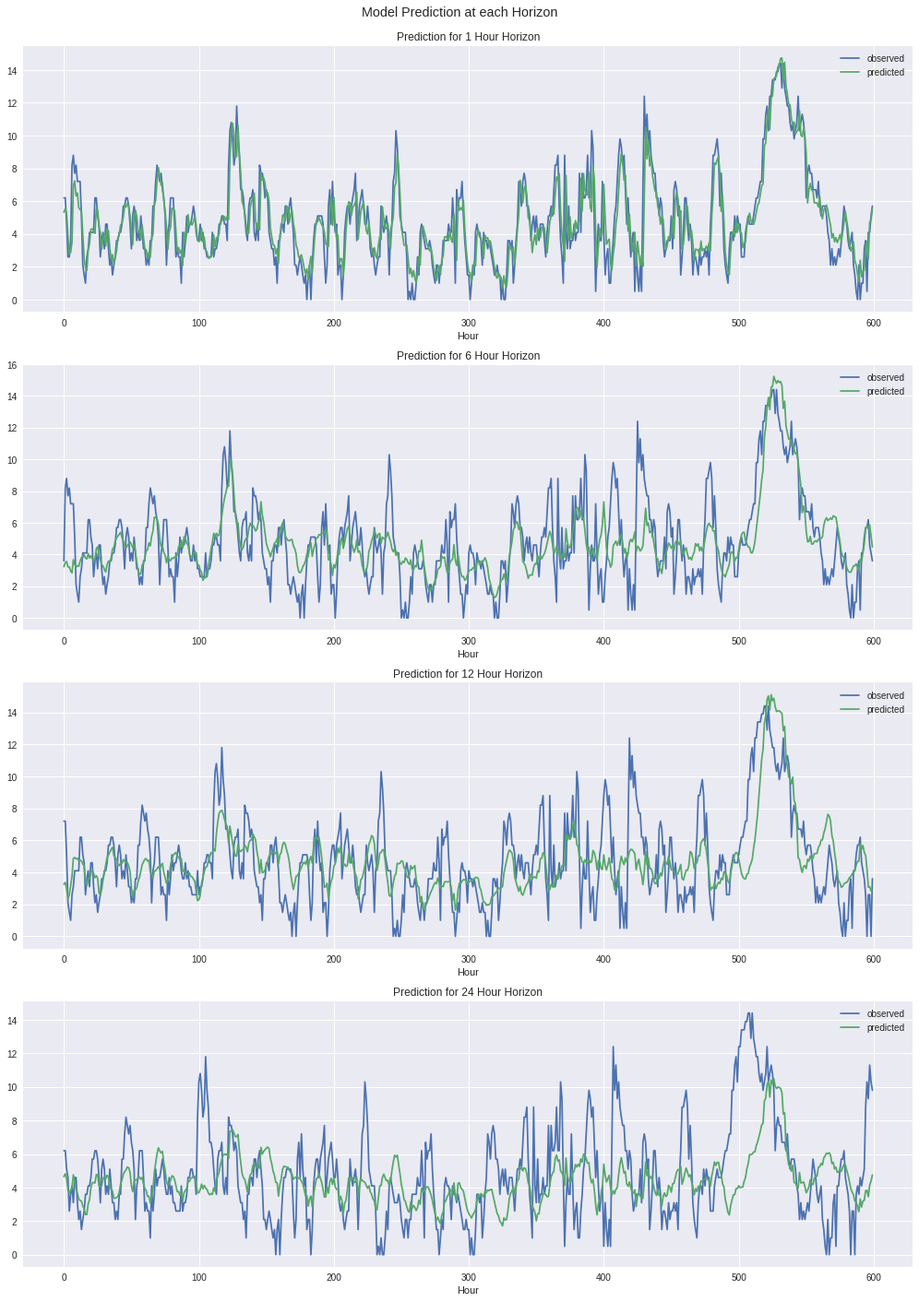
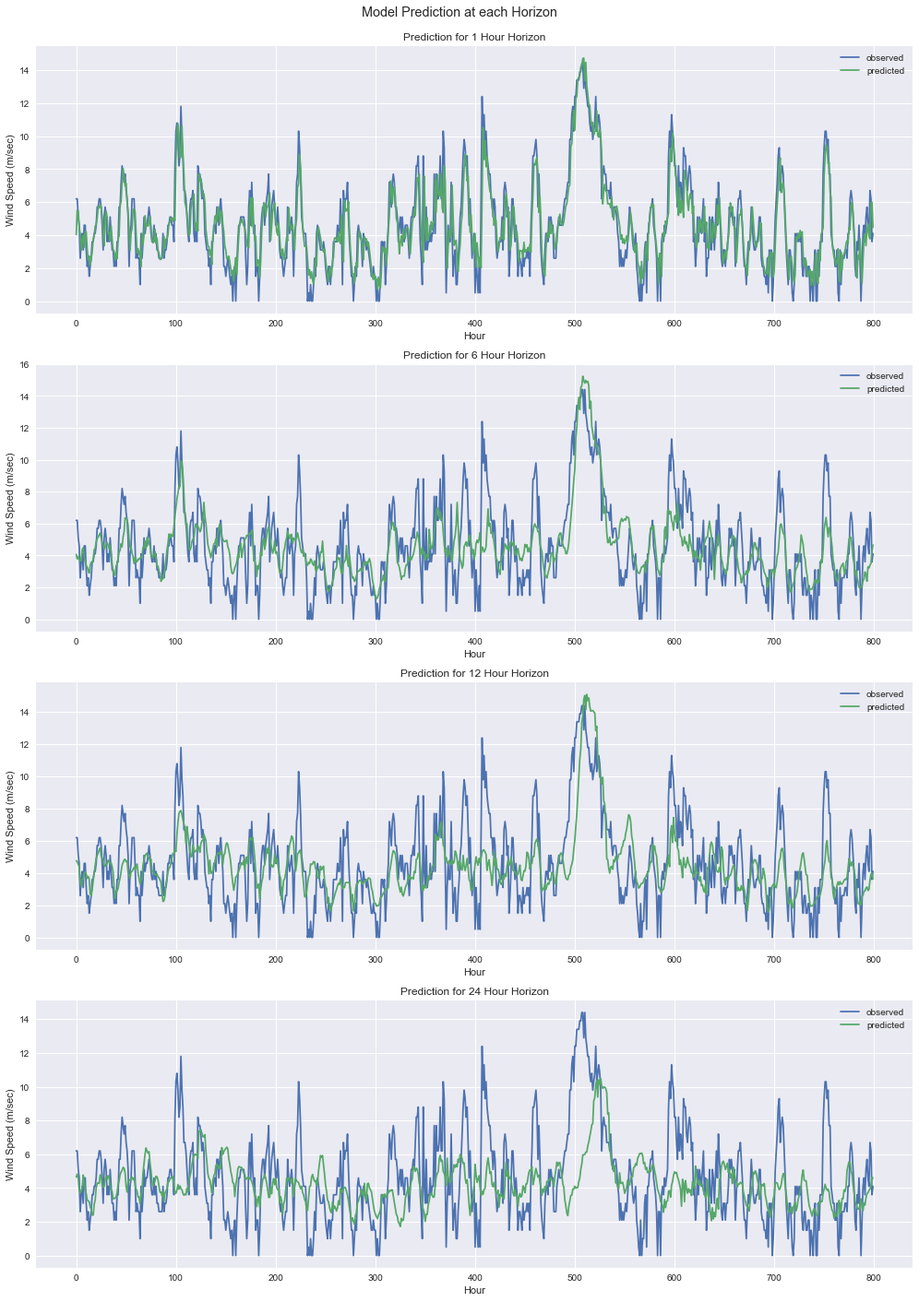
typos and cleanup

diff --git a/_posts/machine-learning/2017-09-01-short-term-forceasting-lstm.md b/_posts/machine-learning/2017-09-01-short-term-forceasting-lstm.md
@@ -9,6 +9,7 @@ categories: [machine-learning, forecasting, LSTM]
 
 The notebook this blog post was generated from can be found on [github](https://github.com/willfleury/wind-forecasting/blob/master/Forecasting.ipynb)
 
+
 ## Overview
 
 Short term forecasting in the renewable energy sector is becoming increasingly important. With renewables penetrating the market faster than expected, and the inherent uncertainty involved with weather forecasts, it is putting a lot of strain on the existing energy providers and distributors to both manage and balance the power grid. Doing so efficiently requires accurate knowledge of both both supply and demand. As both of these are future events, forecasting is required to predict these factors. Energy demand is a more stable signal than supply of renewable energy which is based on local weather systems relative to the energy generation. Of course demand can also spike unexpectedly with events such as extreme weather spells. Bad predictions can cause energy providers to end up with a shortfall in supply which means they will be required to generate the shortfall by burning more expensive and less climate friendly fuels. It can also result in large oversupply where the company is burning fuel needlessly with is both bad economically and for the climate. Therefore, better predictions in the [1, 48] hour time horizon are absolutely central to efficiently balancing supply and demand in the energy grid. 
@@ -18,23 +19,28 @@ In this post, we will show you how to implement a short term weather forecast us
 In this post we're not going to argue the merits of deep learning via LSTMs vs more classical methods such as [ARIMA](https://en.wikipedia.org/wiki/Autoregressive_integrated_moving_average) or vice versa. Instead we're simply showing how to approach and implement a forecasting problem using LSTMs. In general simpler machine learning models should be tried first.
 
 
-### ARIMA
-
-Auto-Regressive Integrated Moving Average ([ARIMA](https://en.wikipedia.org/wiki/Autoregressive_integrated_moving_average)) models are the most general and commonly used class of models for forecasting of a stationary signal (or on which can be made stationary). They support random walk, seasonal trend, non-seasonal exponentional smoothing and autoregressive models. 
-
-Lags of the stationarized series in the forecasting equation are called "autoregressive" terms, lags of the forecast errors are called "moving average" terms, and a time series which needs to be differenced to be made stationary is said to be an "integrated" version of a stationary series. Random-walk and random-trend models, autoregressive models, and exponential smoothing models are all special cases of ARIMA models. See [here](https://people.duke.edu/~rnau/411arim.htm) for more details. While there is a relatively systematic approach to determining the ARIMA model parameters. There are many many publications and applications of ARIMA to renewables forecasting with various extensions to solve different issues. 
-
-To see an application of ARIMA for forecasting and the method for determining the model parameters, see the following [notebook](https://datascience.ibm.com/exchange/public/entry/view/815137c868b916821dec777bdc23013c). 
-
-
 ### Why use a Recurrent Neural Network
 
 Recurrent neural networks enable the learning and encoding of temporal features of a signal. This is ideal for forecasting signals which are in some way predictive based on past events. LSTMs are a type of recurrent networks that overcome some of the historic issues related to training recurrent networks, such as the [vanishing gradients problem](https://en.wikipedia.org/wiki/Vanishing_gradient_problem). We won't delve into the details of LSTMs here and will instead point you to this [article](http://colah.github.io/posts/2015-08-Understanding-LSTMs/) for a thorough overview. 
 
 
+### ARIMA
+
+Auto-Regressive Integrated Moving Average ([ARIMA](https://en.wikipedia.org/wiki/Autoregressive_integrated_moving_average)) models are the most general and commonly used class of models for forecasting of a stationary signal (or a signal which can be made stationary). They support random walk, seasonal trend, non-seasonal exponentional smoothing and autoregressive models. 
+
+Lags of the stationarized series in the forecasting equation are called "autoregressive" terms, lags of the forecast errors are called "moving average" terms, and a time series which needs to be differenced to be made stationary is said to be an "integrated" version of a stationary series. Random-walk and random-trend models, autoregressive models, and exponential smoothing models are all special cases of ARIMA models. See [here](https://people.duke.edu/~rnau/411arim.htm) for more details. There are relatively systematic approaches to determining the ARIMA model parameters. There are many many publications and applications of ARIMA to renewables forecasting with various extensions to solve different issues. 
+
+To see an application of ARIMA for forecasting and the method for determining the model parameters, see the following [notebook](https://datascience.ibm.com/exchange/public/entry/view/815137c868b916821dec777bdc23013c). 
+
+
+### Baseline Comparison
+
+As a baseline model comparison, we will compare the results of the LSTM predictions with that of a persistence method forecast. A persistence method forecast is simply one that uses the observed reading from the previous timestamp to predict the current timestamp. Such a method is very simple but surprisingly effective in complex systems where values between successive timestamps changes little. As the forecast horizon increases, these methods can be seen to be less and less effective. However, cyclical patterns can lead to larger horizons being more accurate than medium horizons (think about the presistence method forecast for the temperature at horizon 12 and 24 hours.. The 24 hour prediction should be more accurate than the 12 hour as it is for the same time of day)
+
+
 ## Weather Data
 
-As we want to make predictions on the weather at a given location at a given point in time, we need observational data for that location. Another common approach is to predict the power output of a wind farm based which is of course based on the weather and the power conversion properties of the wind turbines. However as the power output prediction relies on the weather prediction and the power conversion properties of the wind turbines, modelling the weather predictions can be seen as the first step in modelling the power output. 
+As we want to make predictions on the weather at a given location at a given point in time, we need observational data for that location. Another common approach is to predict the power output of a wind farm which is of course based on the weather and the power conversion properties of the wind turbines.
 
 There are many caveats we won’t go into in this post on the observational data such as the height of the observation tower relative to the turbines and other similarly important factors. An ideal scenario would be observations of the weather data from the same location and height of each turbine in a wind farm. This would provide the most accurate observational data to use in training our models. Sometimes it is easier to model the turbin power output as it can be more stable and incorporate the power conversion properties of the tubines also. However, for the purposes of demonstration, we will use the weather observation available from the nearest NOAA weather station which happens to be El Prat Airport in Barcelona. This is from a height of only 8 metres and measurements at this height tend to be more unstable.
 
@@ -51,7 +57,7 @@ We providea script that allows you to download the data locally
     
 We then read and parse this data for the exact weather observation station we wish to work with (there are, or have been multiple in El Prat). Don't use data from many stations as its unlikely to be consistent (same height, location etc). 
 
-Sometimes the stations have readings every 30 minutes and sometimes every hour. We have seen that not all of the meterological readings are available every 30 minutes in such circumstances and so in this example we only use the hourly data. 
+Sometimes the stations have readings every 30 minutes and sometimes every hour. We have seen that not all of the meterological readings are available every 30 minutes and so in this example we only use the hourly data. 
 
 
 
@@ -91,8 +97,6 @@ def read_observations(years, usaf='081810', wban='99999'):
 The numerical weather model (NWM) we're going to use to help us take into account information other than the local station observations is the NEMS4 model. This is provided free of charge to download by [MeteoBlue](https://www.meteoblue.com) for a given date range for a given station. We read and parse this raw download format here.  
 
 Using a weather model is really important as you cannot hope to account for weather systems moving across a local region without it. An important point to note is that the weather model and observations are not meant to match exactly as the model may be predicting for a different height than the observations. However the boundary and ramp events are what we're after. 
-
-TODO: Get this info off Nico
 
 
 ```python
@@ -135,7 +139,8 @@ def read_nems4(years, prediction_hours=12):
 ```
 
 ### Join the NWM and Observations
-Join the datasets by the timestamps
+
+Next we join the observational and numerical model datasets by their timestamps and print some statistics. Its a good idea to quickly eyeball the statistics here, especially max values. 
 
 
 ```python
@@ -188,7 +193,7 @@ dataset.describe()
     <tr>
       <th>count</th>
       <td>69153.000000</td>
-      <td>69142.000000</td>
+      <td>69054.000000</td>
       <td>69130.000000</td>
       <td>52759.000000</td>
       <td>69182.000000</td>
@@ -202,7 +207,7 @@ dataset.describe()
     <tr>
       <th>mean</th>
       <td>16.766853</td>
-      <td>0.111163</td>
+      <td>0.080754</td>
       <td>67.704470</td>
       <td>1016.462495</td>
       <td>4.108177</td>
@@ -216,7 +221,7 @@ dataset.describe()
     <tr>
       <th>std</th>
       <td>6.758833</td>
-      <td>1.422863</td>
+      <td>1.098300</td>
       <td>14.481048</td>
       <td>6.862298</td>
       <td>2.106659</td>
@@ -286,7 +291,7 @@ dataset.describe()
     <tr>
       <th>max</th>
       <td>35.300000</td>
-      <td>96.000000</td>
+      <td>75.900000</td>
       <td>100.000000</td>
       <td>1038.700000</td>
       <td>27.800000</td>
@@ -305,7 +310,7 @@ dataset.describe()
 
 ### Transformations - Preprocessing
 
-There are a number of preprocessing steps we must take on this data. We only perform the bare minimum in this notebook as an example of how to work with the data. Much more time and analysis should be spend working with missing datapoints in particular and investigating or trying to detect where the instruments may not be working well (e.g. it is reading zero for a given period). Looking at the dataframe statistics in the cell above provide one with a quick eyeball estimate of outliers which should be filtered - for example, if the wind was 100m/sec at any point it is obviously wrong. 
+There are a number of preprocessing steps we must take on this data. We only perform the bare minimum in this notebook as an example of how to work with the data. Much more time and analysis should be spent working with missing datapoints in particular and investigating or trying to detect where the instruments may not be working well (e.g. it is reading zero for a given period). Looking at the dataframe statistics in the cell above, one can quickly tell if there are outliers which should be filtered - for example, if the wind was 100m/sec at any point it is obviously wrong. 
 
 - Dropping Duplicates
 
@@ -317,7 +322,7 @@ As mentioned, this step needs some more love. We apply very simple forward filli
 
 - Standardize / Stationary Signal
 
-A nice resource for understanding stationarity is [here](https://people.duke.edu/~rnau/411diff.htm). A standardised series is easier to predict. Weather data in particular is non stationary with cyclical trends. Hence, we use first order differencing here to transform the signal from non stationary to stationary. We could spend an entire notebook anlaysing this and showing why etc. Instead we refer you back to the [resource](https://people.duke.edu/~rnau/411diff.htm). 
+A nice resource for understanding stationarity is [here](https://people.duke.edu/~rnau/411diff.htm). A standardised series is easier to predict. Weather data in particular is non stationary with cyclical trends. Hence, we use first order differencing here to transform the signal from non stationary to stationary. We could spend an entire notebook analysing this and showing why etc. Instead we refer you back to the [resource](https://people.duke.edu/~rnau/411diff.htm). 
 
 - Normalize
 
@@ -431,7 +436,7 @@ scaled.describe()
 ```
 
     Number of duplicates: 165
-    Number of rows with nan: 18206
+    Number of rows with nan: 18293
 
 
 
@@ -680,7 +685,7 @@ A stateful Keras LSTM network is one where the internal LSTM units are not reset
 
 A non stateful LSTM in Keras terminology resembles more of a classic sliding window approach to training, except where the successive timesteps in the window are framed one after another as a two dimensional array instead of flattened out into a long one dimensional array. This allows the LSTM to learn the state and temporal dependencies between the frames in the time window and Keras will automatically reset the state between each training window. This means that there is no ordering or continuity requirements on the training data outside of the windows.
 
-We cannot reasonably expect the model to pick up very long term dependencies for the weather here given even the most accurate global weather models are chance at horizons of 10 days. Therefore we define our window size (sequence_length) to be 48 hours. You can change to 72 etc to see the difference. The nice things with LSTMs is that you do not increase the number of parameters in the LSTM network by changing this sequence_lenght.
+We cannot reasonably expect the model to pick up very long term dependencies for the weather here given even the most accurate global weather models are chance at horizons of 10 days. Therefore we define our window size (sequence_length) to be 48 hours. You can change to 72 etc to see the difference. The nice thing with LSTMs is that you do not increase the number of parameters in the LSTM network by changing this sequence_lenght.
 
 The shape of the X datasets will be a 3D tensor
 
@@ -816,11 +821,11 @@ for i, horizon in enumerate(horizons):
 
 Build the non stateful LSTM network. 
 
-We apply regularisation via dropout between each layer in the network. This should help overfitting but we could also add L2 or L2 weight regularization to help also. The RMSProp optimizer is recommended when working with LSTMs. The only tunable property of this is the learning rate. Keras has some callbacks that allow for tuning of this as the training progresses (e.g. see [ReduceLROnPlateau](https://keras.io/callbacks/#reducelronplateau)). 
+We apply regularisation via dropout between each layer in the network. This should help overfitting but we could also add L2 weight regularization. The RMSProp optimizer is recommended when working with LSTMs. The only tunable property of this is the learning rate. Keras has some callbacks that allow for tuning of this as the training progresses (e.g. see [ReduceLROnPlateau](https://keras.io/callbacks/#reducelronplateau)). 
 
-The first and last layers deserve a comment. The input_shape argument in the first layer specifies the number of input features which is X_train.shape[2]. The last layer is the output layer (hence linear activation) and the size is equal to the number of time horizons we're predicting - y_train.shape[1]. 
+The first and last layers deserve a comment. The input_shape argument in the first layer specifies the number of input features which is `X_train.shape[2]`. The last layer is the output layer (hence linear activation) and the size is equal to the number of time horizons we're predicting - `y_train.shape[1]`. 
 
-We're using a very simple model structure in this notebook with a small number of parameters in each layer. This means we should expect to see trends as opposed to capturing the finer details of the signal. With better and more abundant training data, we could look to use a bigger network with more regularization if necessary to capture higher level and more complext latent features of the signal. 
+We're using a very simple network structure in this notebook with a small number of parameters in each layer. This means we should expect to see trends as opposed to capturing the finer details of the signal. With better and more abundant training data, we could look to use a bigger network with more regularization if necessary to capture higher level and more complex latent features of the signal. 
 
 
 ```python
@@ -853,6 +858,8 @@ def build_model(layers):
     return model
 ```
 
+    Using TensorFlow backend.
+
 
 ### Train and Evaluate the Model
 
@@ -865,12 +872,14 @@ The batch_size here refers to the number of samples to be taken between gradient
 
 #### Using AWS or Google Cloud GPUs
 
-While a GPU is absolutely essential to train a large network, for a small network like we are playing with in this notebook you don't gain massively. I found that it was about 4 times faster on a p2.xlarge GPU instance on AWS compared to locally on my 4 core i7. Most of the cloud providers give access to a variety of options for deep learning with optimized instances and GPUs. We won't go into the details of how to do for each or the benefits of one versus the other in this post. We trained the model on a p2.2xlarge instance on AWS using the AWS Spot market which cost approx $0.3 / hour. Training 50 epocs took approximately 20 minutes. 
+While a GPU is absolutely essential to train a large network, for a small network like we are playing with in this notebook you can train the model on a good i7 cpu. I found that it was about 8 times faster on a p2.xlarge GPU instance on AWS compared to locally on my 4 core i7. Most of the cloud providers give access to a variety of options for deep learning with optimized instances and GPUs. We won't go into the details of how to do for each or the benefits of one versus the other in this post. We trained the model on a p2.2xlarge instance on AWS using the AWS Spot market which cost approx $0.3 / hour. Training 50 epocs took approximately 20 minutes. 
 
 
 #### Hyperparameter Tuning
 
 Hyperparameter tuning is an essential part of any machine learning process. Do not fall into the trap of trying to manually hand tune the parameters. There are many formal approaches which optimize this (see my blog [post](http://www.willfleury.com/machine-learning/bayesian-optimization/2017/05/15/hyperparameter-optimisation.html) on the suject). If you are running on Google Cloud Machine Learning it actually has the ability to perform the hyperparameter optimization built into the API. Exactly what type of optimization it performs under the hood is unclear however. 
+
+*As mentioned already in this post, we have not performed an exhaustive training on this model and as such one could easily achieve better results by changing the number of layers, the size of the layers, the sequence_lenght or any one of the other tunable hyperparameters for this model.*
 
 
 
@@ -939,12 +948,9 @@ model, predicted, history = run_network(
     Epoch 2/50
     55858/55858 [==============================] - 25s - loss: 0.7636 - val_loss: 0.7331
     Epoch 3/50
-    55858/55858 [==============================] - 25s - loss: 0.7031 - val_loss: 0.6703
-    Epoch 4/50
-    55858/55858 [==============================] - 25s - loss: 0.6572 - val_loss: 0.6524
-...
-    Epoch 48/50
-    55858/55858 [==============================] - 25s - loss: 0.5443 - val_loss: 0.5761
+
+    ...
+    
     Epoch 49/50
     55858/55858 [==============================] - 25s - loss: 0.5445 - val_loss: 0.5869
     Epoch 50/50
@@ -972,7 +978,7 @@ plt.legend()
 
 Get error scores for the predicted test data. We provide two measures here, [MSE](https://en.wikipedia.org/wiki/Mean_squared_error) to match what the training was and [MAE](https://en.wikipedia.org/wiki/Mean_absolute_error) which can be more relevant for understanding a forecast accuracy. 
 
-We also provide the error scores for each horizon individually. This is very important. We have noticed some articles and worse, libraries, which only provide the **averaged** error score across all the predicted horizons. Naturally, a 1 hour timestep prediction is going to be more accurate than a 24 hour. If we are predicting many horizons then the shorter horizons will be more accurate and reduce the average error score. Therefore its important to evaluate each horizon individually to understand your real predictive power at each step. 
+We also provide the error scores for each horizon individually. This is very important. We have noticed some articles and worse, libraries, which only provide the **averaged** error score across all the predicted horizons. Naturally, a 1 hour timestep prediction is going to be more accurate than a 24 hour. If we are predicting many horizons then the shorter horizons will be more accurate and reduce the average error score. Therefore its important to evaluate each horizon individually to understand your real predictive power at each step. We can see that the MSE of the test dataset is very similar to the test and validation which is good.
 
 We must also transform the predictions back into actual wind speed values. That means we must unscale and undifference the predictions at the various horizons. We then provide the error scores at these real world scales to again understand the predictions better in a real world context. 
 
@@ -981,28 +987,29 @@ We must also transform the predictions back into actual wind speed values. That 
 ```python
 from sklearn.metrics import mean_squared_error, mean_absolute_error
 
-print("MSE {:.3}, MAE {:.3}".format(
-    mean_squared_error(y_test, predicted),
-    mean_absolute_error(y_test, predicted)))
+print("MAE {:.3}, MSE {:.3}".format(
+    mean_absolute_error(y_test, predicted),
+    mean_squared_error(y_test, predicted)))
 
 for i, horizon in enumerate(horizons):
-    print("MSE {:.3}, MAE {:.3} for horizon {}".format(
-        mean_squared_error(y_test[:,i], predicted[:,i]),
+    print("MAE {:.3f}, MSE {:.3f} for horizon {}".format(
         mean_absolute_error(y_test[:,i], predicted[:,i]),
+        mean_squared_error(y_test[:,i], predicted[:,i]),
         horizon))
 
 ```
 
-    MSE 0.515, MAE 0.538
-    MSE 0.691, MAE 0.622 for horizon 1
-    MSE 0.39, MAE 0.477 for horizon 6
-    MSE 0.354, MAE 0.458 for horizon 12
-    MSE 0.623, MAE 0.595 for horizon 24
+    MAE 0.538, MSE 0.515
+    MAE 0.622, MSE 0.691 for horizon 1
+    MAE 0.477, MSE 0.390 for horizon 6
+    MAE 0.458, MSE 0.354 for horizon 12
+    MAE 0.595, MSE 0.623 for horizon 24
 
 
 
 ```python
 from sklearn.metrics import mean_squared_error, mean_absolute_error
+from math import sqrt
 
 inverse_scale = invert_all_prediction_scaled(scaler, predicted, scaled.columns, horizons)
 
@@ -1011,17 +1018,55 @@ predicted_signal = invert_all_prediction_differences(
     features['wind_speed'][sequence_offset+row_split:])
 
 for i, horizon in enumerate(horizons):
-    print("Original Signal MAE for horizon {} is {:.3}".format(horizon,
-        mean_absolute_error(
-            features['wind_speed'][sequence_offset+row_split+horizon:],
-            predicted_signal[:-horizon,i])))
+    a = features['wind_speed'][sequence_offset+row_split+horizon:]
+    p = predicted_signal[:-horizon,i]
+    
+    print("Real scale predictions at horizon {:>2} has MAE {:.3f}, MSE {:.3f}, RMSE {:.3f}".format(
+        horizon,
+        mean_absolute_error(a, p),
+        mean_squared_error(a, p),
+        sqrt(mean_squared_error(a, p))))
 
 ```
 
-    Original Signal MAE for horizon 1 is 0.864
-    Original Signal MAE for horizon 6 is 1.26
-    Original Signal MAE for horizon 12 is 1.38
-    Original Signal MAE for horizon 24 is 1.5
+    Real scale predictions at horizon  1 has MAE 0.864, MSE 1.335, RMSE 1.156
+    Real scale predictions at horizon  6 has MAE 1.256, MSE 2.703, RMSE 1.644
+    Real scale predictions at horizon 12 has MAE 1.377, MSE 3.200, RMSE 1.789
+    Real scale predictions at horizon 24 has MAE 1.500, MSE 3.953, RMSE 1.988
+
+
+### Compare Model with Persistence Forecast
+
+As already mentioned, a [persistence forecast](http://ww2010.atmos.uiuc.edu/(Gh)/guides/mtr/fcst/mth/prst.rxml) is a good baseline comparison for any forecasting model. 
+
+We can see that the LSTM model outperforms the persistence method at all horizons. At the 1 hour horizon it is very close as to be expected given such horizons the weather does not change dramatically. At the 6 and 12 hour horizons the LSTM model outperforms the persistence method by a much larger factor (roughly twice as accurate with an MAE value roughly half that of the persistence method). The 24 hour prediction is only just better than the persistence model which shows the cyclical nature of the wind speed.
+
+With better quality data, and more exhaustive tuning and training of the LSTM network we could resonably expect much better results. 
+
+
+
+```python
+def evaluate_persistence_forecast(test, horizons):
+    for i, horizon in enumerate(horizons):
+        a = test[horizon:]
+        p = test[:-horizon]
+  
+        print("Persistence Method prediction at horizon {:>2} has MAE {:.3f}, MSE {:.3f}, RMSE {:.3f}".format(
+            horizon,
+            mean_absolute_error(a, p),
+            mean_squared_error(a, p),
+            sqrt(mean_squared_error(a, p))))
+
+
+evaluate_persistence_forecast(
+    features['wind_speed'][sequence_offset+row_split:].values, # ensure we have same test set 
+    horizons)
+```
+
+    Persistence Method prediction at horizon  1 has MAE 0.950, MSE 1.695, RMSE 1.302
+    Persistence Method prediction at horizon  6 has MAE 2.008, MSE 6.574, RMSE 2.564
+    Persistence Method prediction at horizon 12 has MAE 2.319, MSE 8.692, RMSE 2.948
+    Persistence Method prediction at horizon 24 has MAE 1.861, MSE 6.116, RMSE 2.473
 
 
 ### Visualising 
@@ -1035,8 +1080,8 @@ We can see from the plots that the predictions follow the signal trends quite we
 ```python
 import matplotlib.pyplot as plt
 
-# plot comparison with observation, numerical weather model and our prediction
-plot_samples=600
+plot_samples=800
+max_horizon = horizons[-1]
 plots = len(horizons)
 
 fig = plt.figure(figsize=(14, 5 * plots))
@@ -1045,13 +1090,18 @@ fig.suptitle("Model Prediction at each Horizon")
 for i, horizon in enumerate(horizons):
     plt.subplot(plots,1,i+1)
     
-    real_signal = features['wind_speed'][sequence_offset+row_split+horizon:].values
+    len_adjust = max_horizon-horizon # ensure all have same lenght
     
-    plt.plot(real_signal[:plot_samples], label='observed')
-    plt.plot(predicted_signal[:plot_samples, i], label='predicted')
+    real = features['wind_speed'][sequence_offset+row_split+horizon+len_adjust:].values
+    pred = predicted_signal[len_adjust:-horizon,i]
+    
+    plt.plot(real[:plot_samples], label='observed')
+    plt.plot(pred[:plot_samples], label='predicted')
     plt.title("Prediction for {} Hour Horizon".format(horizon))
     plt.xlabel("Hour")
+    plt.ylabel("Wind Speed (m/sec)")
     plt.legend()
+    plt.tight_layout()
     
 fig.tight_layout()
 plt.subplots_adjust(top=0.95)
@@ -1060,11 +1110,8 @@ plt.subplots_adjust(top=0.95)
 
 {% include image.html img="/assets/images/machine-learning/forecasting_image_1.png" %}
 
-
 ### Critique 
 
 One very important property we are missing for our predictions, is the confidence our model has in a given prediction - aka credible interval. We can actually extend this model and add a Mixture Density Network ([MDN](http://edwardlib.org/tutorials/mixture-density-network)) as the final layer in the network. MDNs are very useful when combined with neural networks, where the outputs of the neural network are the parameters of the mixture model, rather than direct prediction of the data label. So for each input, you would have a set of mean parameters, a set of standard deviation parameters, and a set of probabilities that the output point would fall into those gaussian distributions ([taken from](http://blog.otoro.net/2015/06/14/mixture-density-networks/)). In a follow up post we will extend our model with an MDN.
 
 Another critique is that we don't do any feature engineering at all. While one of the stated benefits of deep learning in general is its inherent ability to extract latent features, it would be beneficial at least to test out some standard forecasting features such as trend strenghts etc. They may or may not improve the result. Another interesting idea which Uber recently published about their use of LSTMs for forecasting was to use a separate LSTM autoencoder network to create additional features as input to the LSTM model for prediction. See their article [here](https://eng.uber.com/neural-networks/). This is very easy to achieve with Keras. 
-
-
